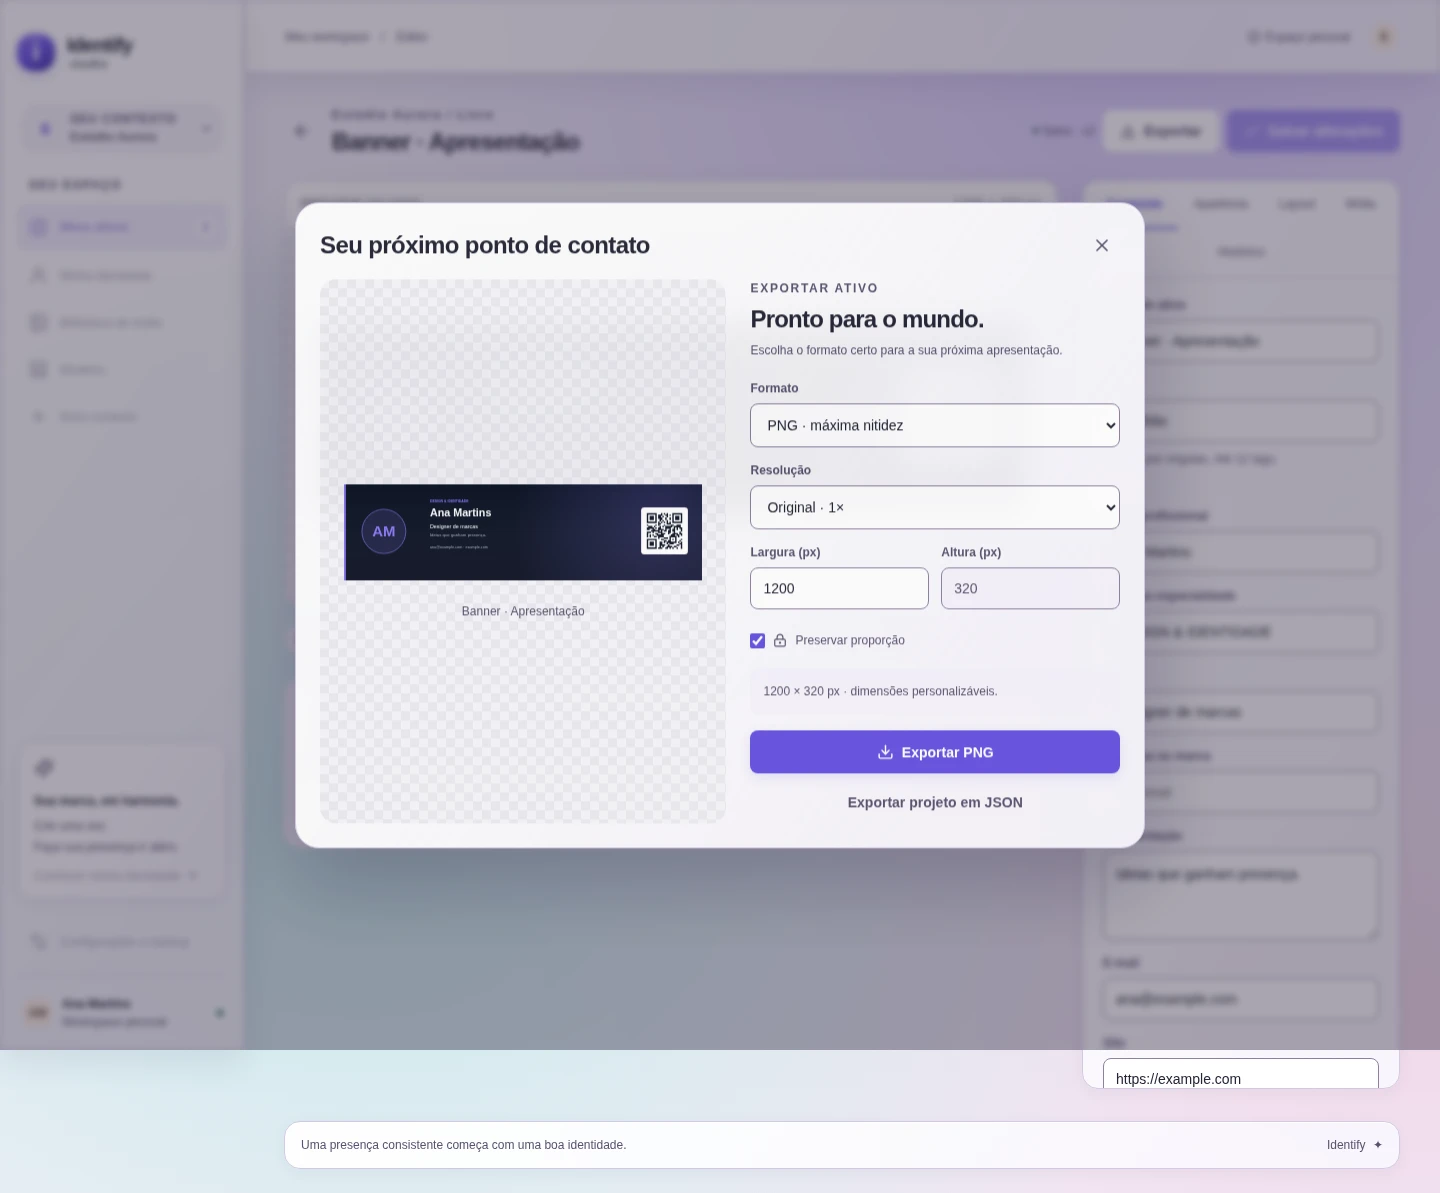
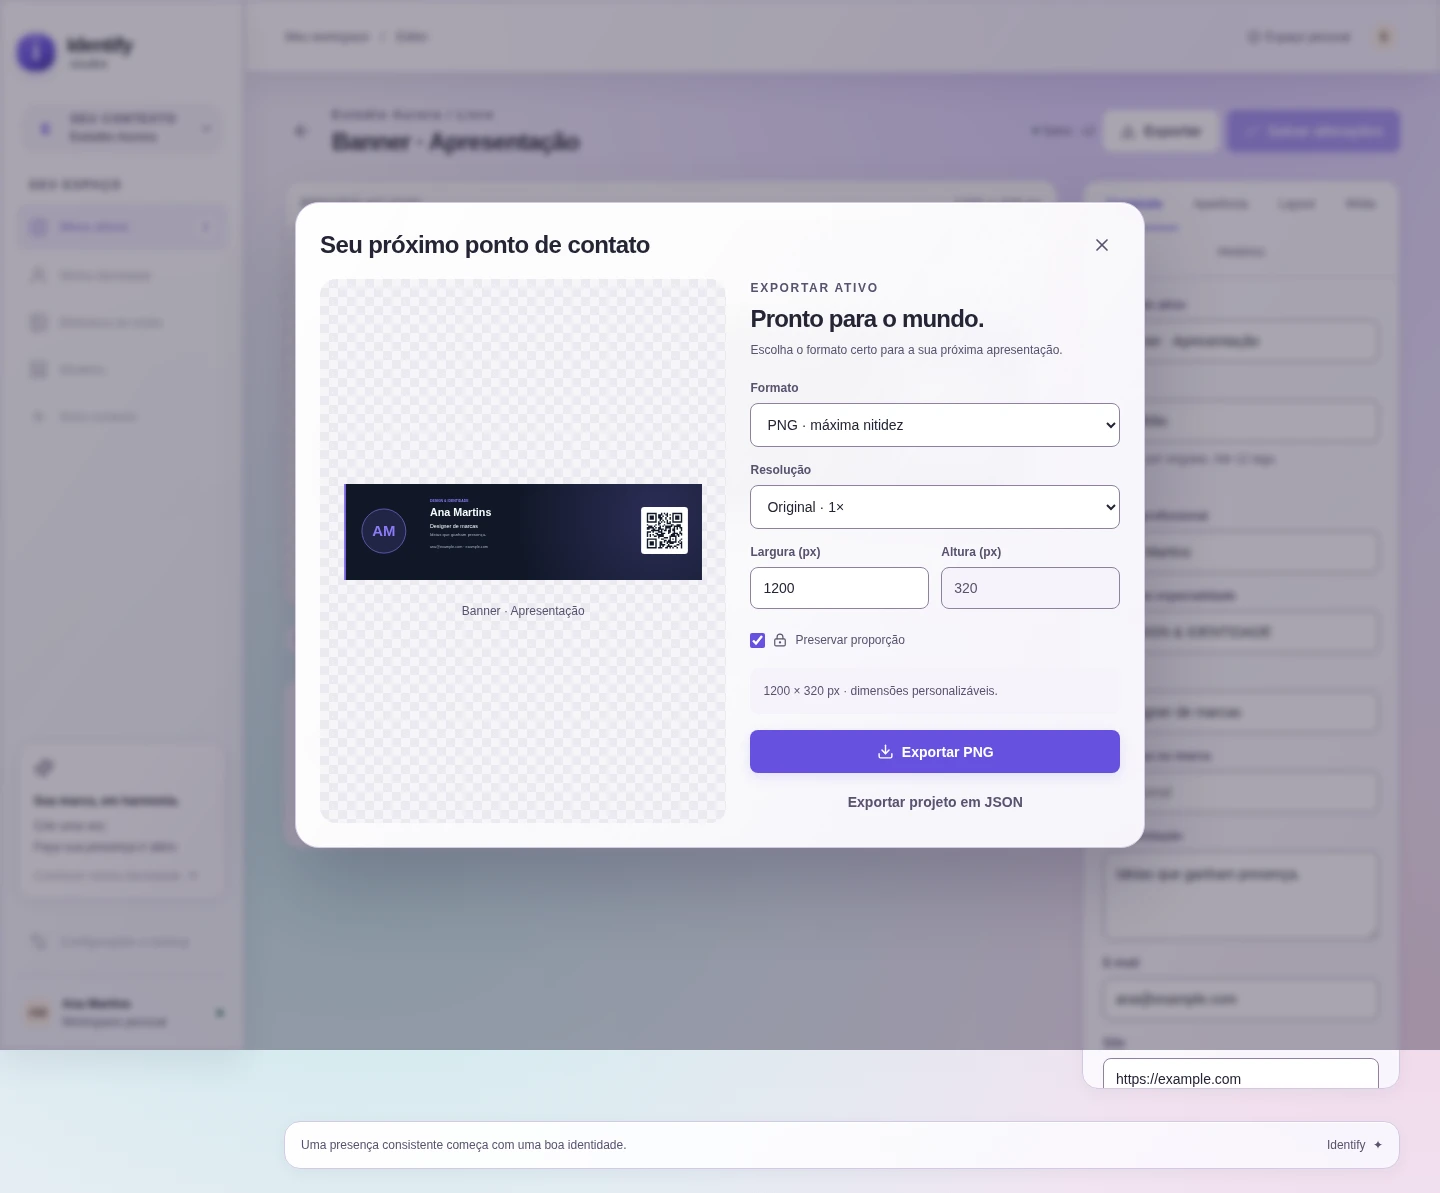
fix(ui): preserve contrast throughout dialog entrance animation

diff --git a/client/src/design-system/materials.css b/client/src/design-system/materials.css
@@ -40,11 +40,9 @@
 }
 @keyframes glass-enter {
   from {
-    opacity: 0;
     transform: translateY(8px);
   }
   to {
-    opacity: 1;
     transform: translateY(0);
   }
 }

diff --git a/docs/liquid-glass/VALIDATION.md b/docs/liquid-glass/VALIDATION.md
@@ -8,19 +8,19 @@ Este redesign não foi mesclado nem publicado em produção. Não houve alteraç
 
 ## Verificações executadas
 
-| Verificação                                    | Resultado                                                                                                                                                                     |
-| ---------------------------------------------- | ----------------------------------------------------------------------------------------------------------------------------------------------------------------------------- |
-| `npm run build`                                | TypeScript estrito e bundle Vite aprovados                                                                                                                                    |
-| `npm test`                                     | 13 testes aprovados; autenticação/validação, CRUD, concorrência, persistência, migrações, storage e renderização                                                              |
-| `node --test tests/cloud-oauth-relay.test.mjs` | 4 testes aprovados                                                                                                                                                            |
-| `npm run test:e2e`                             | 11 verificações aprovadas; criar/editar/salvar/recarregar, imagens, recorte, modelos, histórico, contextos, filtros, backup e downloads reais                                 |
-| Exportações                                    | PNG, JPEG, WebP e SVG reais; assinatura HTML com links seguros                                                                                                                |
-| `npm run test:visual`                          | 36 capturas auditadas, sem violações axe, overflow horizontal ou exceções; 8 telas em 1440×1050, 834×1112, 390×844 e 320×812, mais estados de preferência/erro/texto ampliado |
-| Teclado                                        | Tabs com setas/Home/End; Tab/Shift+Tab dentro do modal, Escape e retorno do foco; navegação e encerramento da sessão mobile                                                   |
-| Preferências                                   | Movimento reduzido, transparência reduzida emulada via CDP, materiais opacos e cores forçadas                                                                                 |
-| Recuperação                                    | Resposta 503 local interceptada, alerta visível e recuperação após restaurar a API/recarregar                                                                                 |
-| `npm audit --audit-level=moderate`             | Zero vulnerabilidades                                                                                                                                                         |
-| Prettier e `git diff --check`                  | Aprovados; não existe script ESLint no projeto                                                                                                                                |
+| Verificação                                    | Resultado                                                                                                                                                                                                                   |
+| ---------------------------------------------- | --------------------------------------------------------------------------------------------------------------------------------------------------------------------------------------------------------------------------- |
+| `npm run build`                                | TypeScript estrito e bundle Vite aprovados                                                                                                                                                                                  |
+| `npm test`                                     | 13 testes aprovados; autenticação/validação, CRUD, concorrência, persistência, migrações, storage e renderização                                                                                                            |
+| `node --test tests/cloud-oauth-relay.test.mjs` | 4 testes aprovados                                                                                                                                                                                                          |
+| `npm run test:e2e`                             | 11 verificações aprovadas; criar/editar/salvar/recarregar, imagens, recorte, modelos, histórico, contextos, filtros, backup e downloads reais                                                                               |
+| Exportações                                    | PNG, JPEG, WebP e SVG reais; assinatura HTML com links seguros                                                                                                                                                              |
+| `npm run test:visual`                          | 40 capturas auditadas, sem violações axe, overflow horizontal ou exceções; 8 telas em 1440×1050, 834×1112, 390×844 e 320×812, mais estados de preferência/erro/texto ampliado e quadros intermediários da entrada do dialog |
+| Teclado                                        | Tabs com setas/Home/End; Tab/Shift+Tab dentro do modal, Escape e retorno do foco; navegação e encerramento da sessão mobile                                                                                                 |
+| Preferências                                   | Movimento reduzido, transparência reduzida emulada via CDP, materiais opacos e cores forçadas                                                                                                                               |
+| Recuperação                                    | Resposta 503 local interceptada, alerta visível e recuperação após restaurar a API/recarregar                                                                                                                               |
+| `npm audit --audit-level=moderate`             | Zero vulnerabilidades                                                                                                                                                                                                       |
+| Prettier e `git diff --check`                  | Aprovados; não existe script ESLint no projeto                                                                                                                                                                              |
 
 Auditoria automatizada usa axe com tags WCAG 2 A/AA, 2.1 AA e 2.2 AA. O JSON em [evidence/after/audit.json](evidence/after/audit.json) registra as telas, achados, overflow, verificações de interação e contagem de filtros. Capturas complementam a auditoria; ausência de violações automáticas não equivale a certificação integral WCAG.
 
@@ -37,13 +37,15 @@ Auditoria automatizada usa axe com tags WCAG 2 A/AA, 2.1 AA e 2.2 AA. O JSON em 
 | P2         | Overflow de métricas após aumento de fonte          | Colunas `minmax(0, 1fr)`, quebra de texto e largura mínima zero                |
 | P2         | Contraste de seleção na nova variante de navegação  | Token de texto ativo escurecido e matriz repetida                              |
 
+O primeiro CI também detectou contraste insuficiente durante o fade de entrada do dialog. O fade foi removido: a entrada conserva opacidade constante e usa apenas deslocamento. A matriz adicional audita um quadro intermediário da animação em cada viewport; a auditoria original foi mantida.
+
 Sem P0/P1 conhecidos em aberto no escopo testado. Os achados acima foram reproduzidos e corrigidos, não presumidos. A linha de base de 24 telas fica em [evidence/before/audit.json](evidence/before/audit.json).
 
 ## Desempenho e limites
 
 A biblioteca tem dois elementos com backdrop filter: header e sidebar. Cartões e demais painéis usam reflexos estáticos. O dialog e seu scrim acrescentam filtros apenas quando abertos; opacidade reduzida/fallback remove os filtros por completo. Não há fonte externa, nova dependência ou animação contínua do ambiente. As suítes de navegador também exigem zero solicitações externas e zero exceções JavaScript.
 
-Os tempos de navegação no JSON são observações locais do Chromium sem throttling, **não** medição de LCP/INP ou promessa de desempenho em aparelhos reais. Não foi executado Lighthouse nem profiling de GPU em hardware móvel. O bundle principal JS passa de 336,96 KB / 104,17 KB gzip na base para aproximadamente 338,55 KB / 105,16 KB gzip; o acréscimo é inferior a 1 KB gzip. CSS final: 44,08 KB / 8,08 KB gzip. CSS de UI cresceu com o vocabulário semântico e os materiais; não foram incluídas bibliotecas visuais.
+Os tempos de navegação no JSON são observações locais do Chromium sem throttling, **não** medição de LCP/INP ou promessa de desempenho em aparelhos reais. Não foi executado Lighthouse nem profiling de GPU em hardware móvel. O bundle principal JS passa de 336,96 KB / 104,17 KB gzip na base para aproximadamente 338,55 KB / 105,16 KB gzip; o acréscimo é inferior a 1 KB gzip. CSS final: 44,06 KB / 8,07 KB gzip. CSS de UI cresceu com o vocabulário semântico e os materiais; não foram incluídas bibliotecas visuais.
 
 Não verificável nesta sessão: Safari/Firefox reais, navegador antigo sem backdrop-filter, leitor de tela humano e GPU de celular. O ramo de fallback está implementado com `@supports`; os valores opacos compartilhados foram exercitados no Chromium, sem alegar que isso simula outro motor. São limites de validação, não falhas confirmadas.
 

diff --git a/docs/liquid-glass/PROGRESS.md b/docs/liquid-glass/PROGRESS.md
@@ -47,3 +47,9 @@ Matriz final: 36 capturas em desktop/tablet/mobile/320 px e estados adicionais. 
 Build final aprovado: JS principal 338,55 KB / 105,16 KB gzip; CSS 44,08 KB / 8,08 KB gzip. Biblioteca usa duas superfícies filtradas, sem filtro por cartão. Evidências WebP e JSON, documentação de tokens/componentes/limites e testes disponíveis no CI. Sem P0/P1 conhecidos em aberto no escopo testado. Não foram executados Safari/Firefox reais, leitura assistiva humana ou profiling de hardware móvel; limites descritos em VALIDATION.md.
 
 Entrega preparada como PR em rascunho. Main e produção preservadas; nenhum merge, deploy ou upgrade autorizado/executado nesta tarefa.
+
+## Revisão do CI
+
+O primeiro CI do PR encontrou contraste insuficiente no início da animação de entrada do dialog: o fade de opacidade misturava texto e fundo. A análise local havia ocorrido após a transição. Correção: entrada apenas por deslocamento, com opacidade constante, preservando contraste também durante a animação. Auditoria não foi relaxada; testes afetados e CI repetidos.
+
+Após a correção, 11 verificações E2E e a matriz ampliada de 40 capturas (incluindo quadros intermediários de animação em quatro larguras) passaram localmente. Zero violações, overflow, exceções e solicitações externas. Build final: CSS 44,06 KB / 8,07 KB gzip. Correção enviada ao PR para nova execução completa do CI.

diff --git a/docs/liquid-glass/README.md b/docs/liquid-glass/README.md
@@ -27,7 +27,7 @@ A ordem de importação é tokens → layouts → materiais. Os materiais usam `
 | Painel      | Branco a 88%, reflexão estática, borda e `--shadow-panel`; sem backdrop filter                                                                           |
 | Chrome      | Branco a 84%, blur 16 px e saturação 120%, `--shadow-floating`; header e sidebar                                                                         |
 | Overlay     | Branco a 96%, blur 16 px, `--shadow-overlay`; dialog e scrim separado                                                                                    |
-| Movimento   | 120/180/280 ms; curva `cubic-bezier(.2,.8,.2,1)`; hover discreto e entrada única do dialog                                                               |
+| Movimento   | 120/180/280 ms; curva `cubic-bezier(.2,.8,.2,1)`; hover discreto e entrada única do dialog por deslocamento, sem fade de texto                           |
 
 Dimensões de canvas, presets de exportação, recorte e posicionamento da arte continuam geométricas; não são convertidas em espaçamento da interface. A paleta e a tipografia dos documentos exportados continuam no modelo compartilhado e não foram redesenhadas.
 
